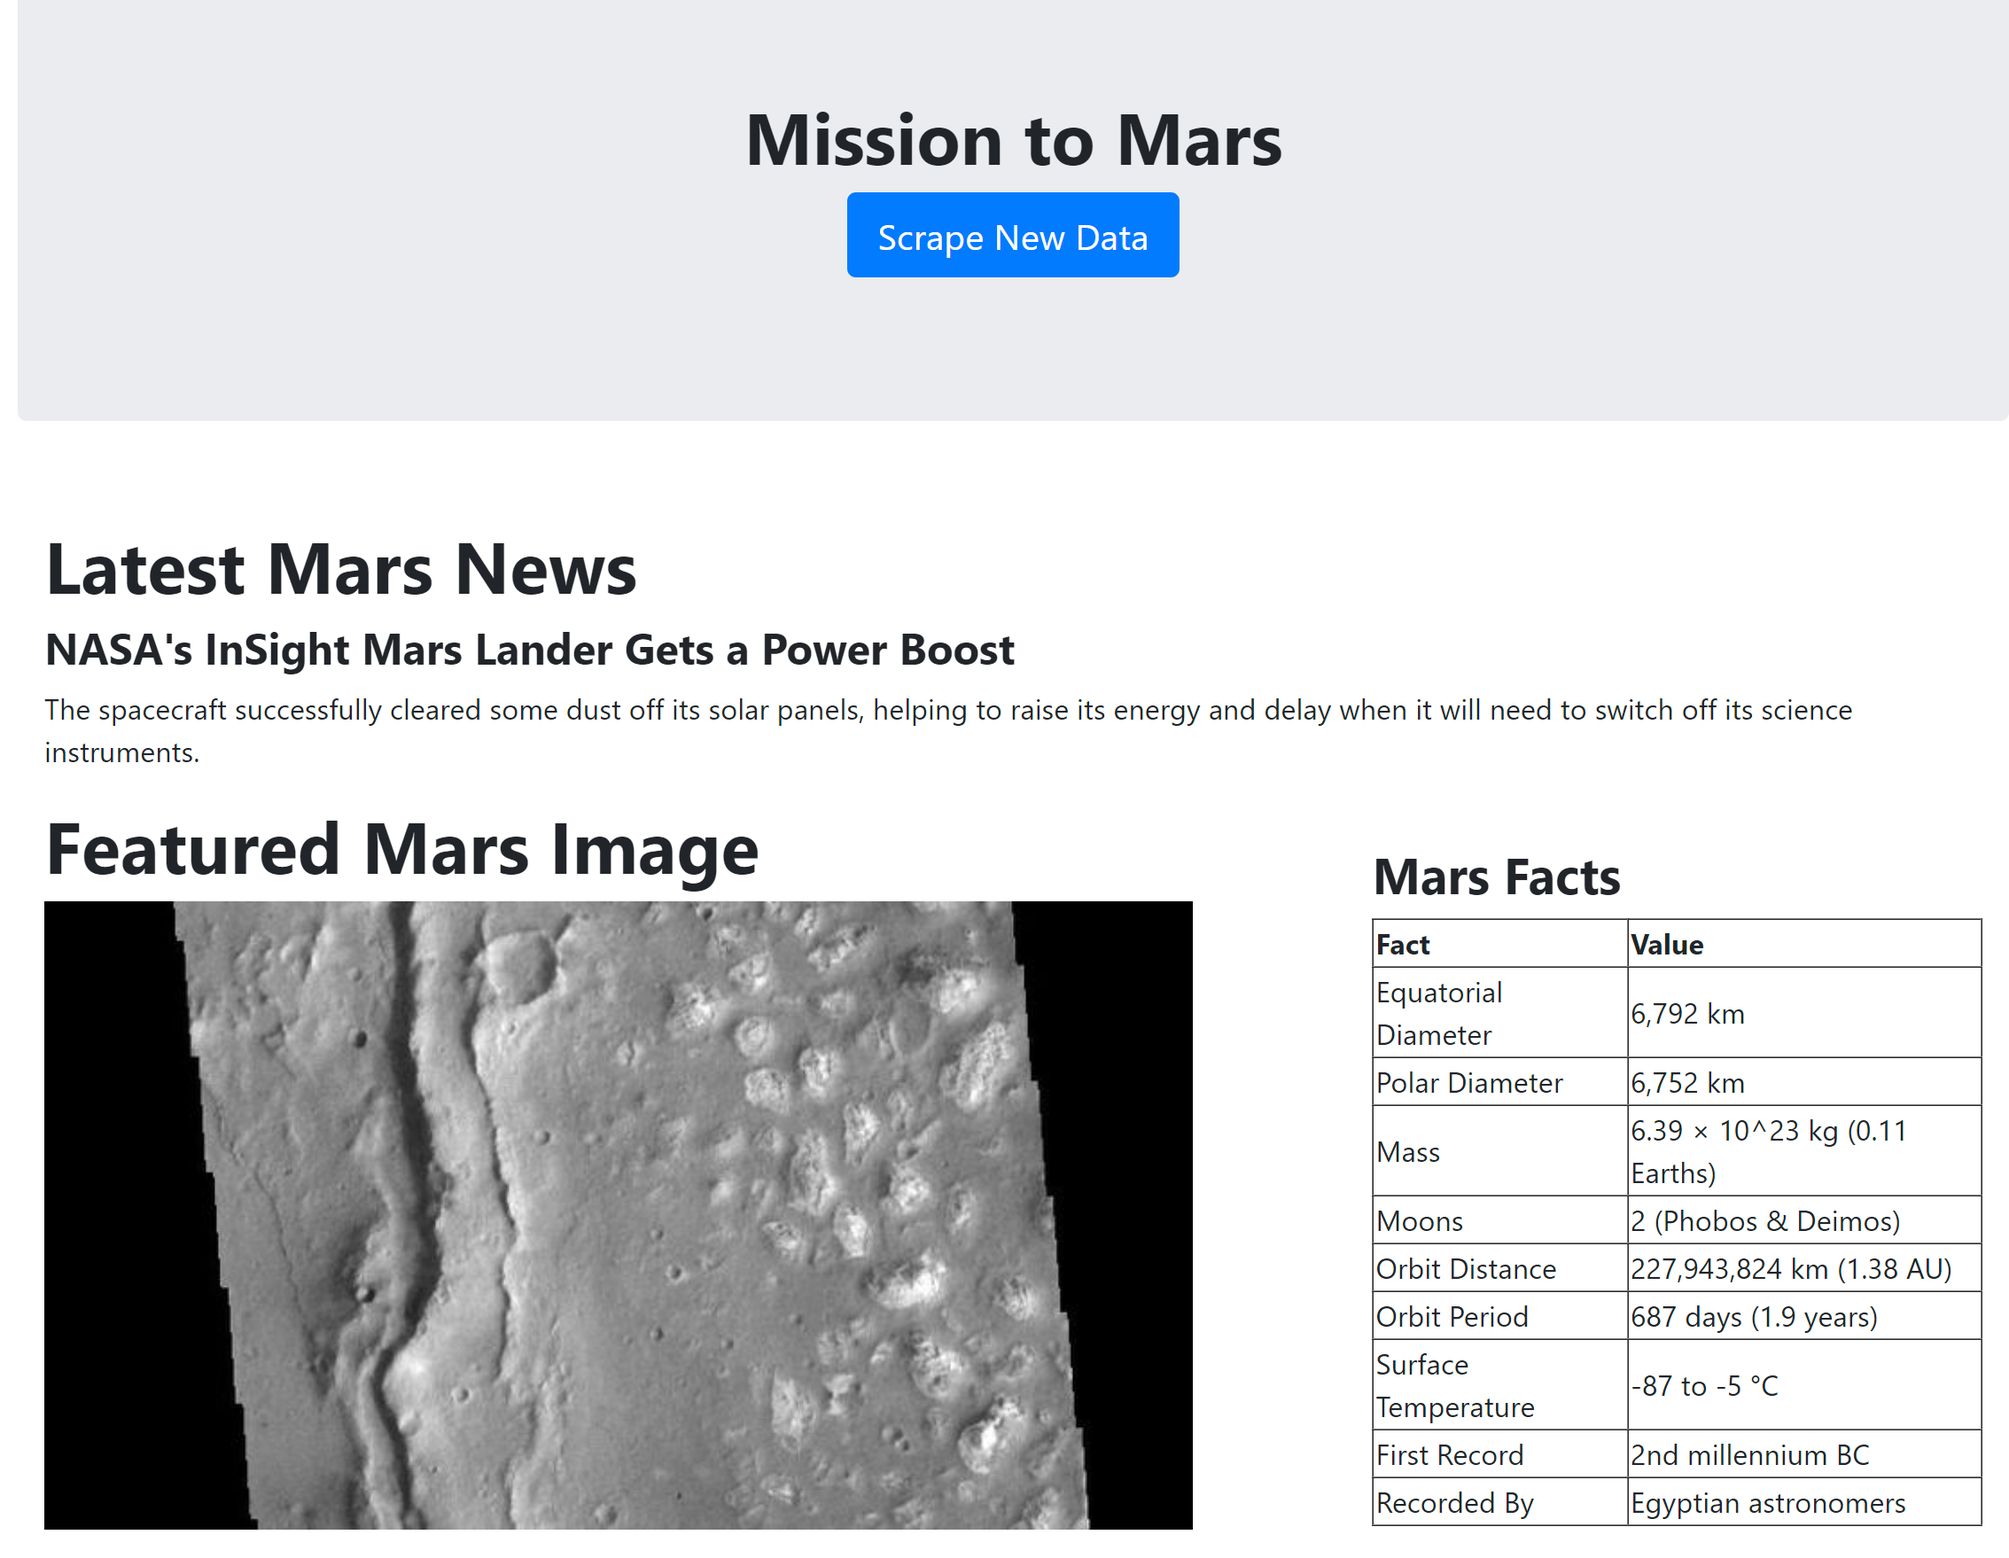
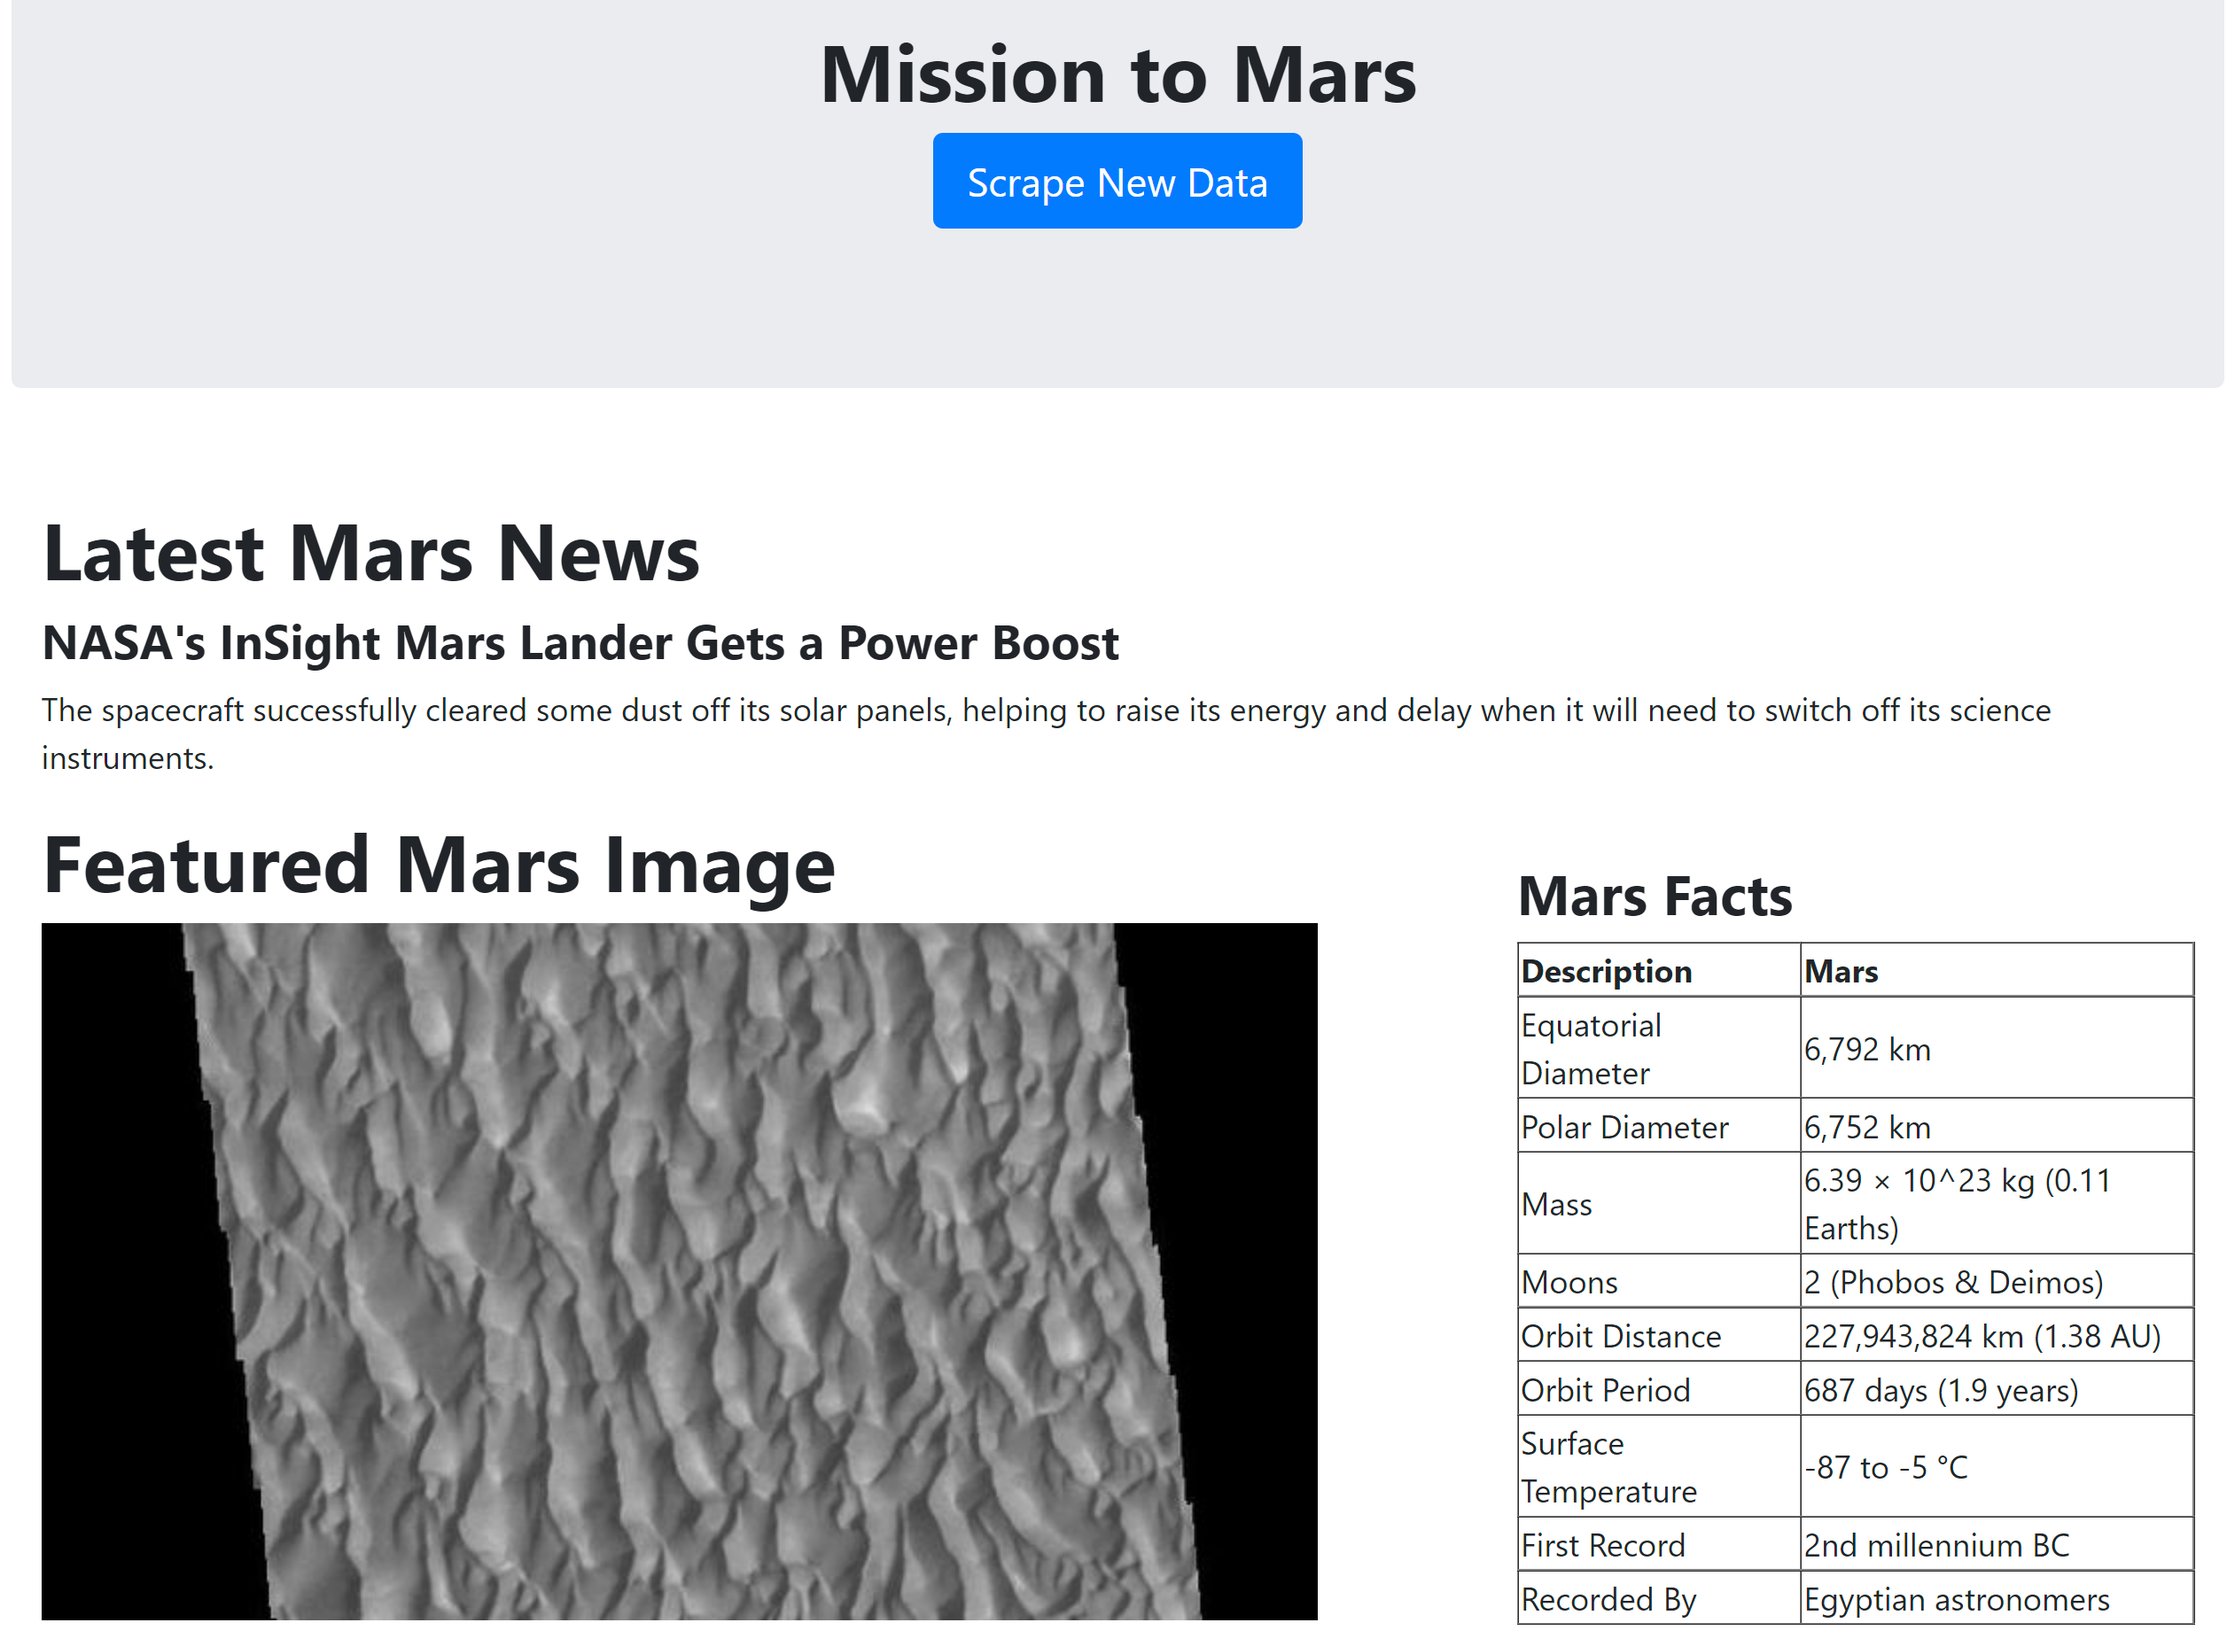
update images

Changed region(s): [[0.0, 0.3072, 0.9263, 0.9829], [0.6793, 0.5222, 0.9881, 1.0], [0.3705, 0.0307, 0.6484, 0.1843]]

diff --git a/scrape_mars.py b/scrape_mars.py
@@ -61,14 +61,14 @@ def scrape_mars_facts():
     # set up url for Mars Facts
     facts_url = "https://space-facts.com/mars/"
     browser.visit(facts_url)
-    time.sleep(3)
-
+    
     # Parse facts url to find tables
     facts_table = pd.read_html(facts_url)
     mars_table = facts_table[0]    
 
     # rename columns
     mars_table = mars_table.rename(columns = {0:'Description', 1:'Mars'})
+    mars_table = mars_table
     mars_table['Description'] = mars_table['Description'].str.replace(':','')
     mars_table
    
@@ -96,8 +96,8 @@ def scrape_mars_images():
 
     # Set up url for Mars Image
     base_url = "https://data-class-jpl-space.s3.amazonaws.com/JPL_Space/"
-    image_url = base_url + "index.html"
-    browser.visit(image_url)
+    url = base_url + "index.html"
+    browser.visit(url)
     time.sleep(3)
     html = browser.html
 
@@ -105,14 +105,14 @@ def scrape_mars_images():
     soup = bs(html, "html.parser")
 
     # scrape for image URL
-    feature_url = soup.find('a', class_='showimg fancybox-thumbs')['href']
-    feature_image_url = base_url + feature_url
+    image_url = soup.find('a', class_='showimg fancybox-thumbs')['href']
+    featured_image_url = base_url + image_url
 
     # print url
     # pprint(feature_image_url)
 
     # Add to dictionary
-    mars_info['image_url'] = feature_image_url
+    mars_info['image_url'] = featured_image_url
 
     return mars_info
     
@@ -127,8 +127,8 @@ def scrape_mars_hemi():
     browser = init_browser()
 
     # Set up url for Mars Hemisphere
-    hemi_url = "https://astrogeology.usgs.gov/search/results?q=hemisphere+enhanced&k1=target&v1=Mars"
-    browser.visit(hemi_url)
+    hemisphere_url = "https://astrogeology.usgs.gov/search/results?q=hemisphere+enhanced&k1=target&v1=Mars"
+    browser.visit(hemisphere_url)
     html = browser.html
     
     # beautifulSoup
@@ -140,7 +140,6 @@ def scrape_mars_hemi():
     # set base url
     hemi_base = 'https://astrogeology.usgs.gov'
 
-
     # List for hemi info storage
     hemi_image_urls = []
 
@@ -151,27 +150,31 @@ def scrape_mars_hemi():
         title = item.find('h3').text
 
         # link to hemi image
-        hemi_link = item.find('a', class_='itemLink product-item')['href']
+        hemi_full = item.find('a', class_='itemLink product-item')['href']
 
         # Set browser link
-        browser.visit(hemi_base + hemi_link)
-       
+        browser.visit(hemi_base + hemi_full)
+               
         # Set up url for Mars hemi image
-        hemi_html = browser.html
-        hemi_soup = bs(hemi_html, 'html.parser')
+        res_html = browser.html
+        hemi_soup = bs(res_html, 'html.parser')
+
+        # path to the hemi images
+        image_path = hemi_soup.find('img', class_='wide-image')['src']
 
         # URL for hemi images
-        hemi_url = hemi_base + hemi_soup.find('img', class_='wide-image')['src']
+        res_hemi_url = f'{hemi_base}{image_path}'
 
         # append title and image url to dictionary
         hemi_image_urls.append({
-            "title": title,
-             "img_url": hemi_url
-             })
+            "title": title, 
+            "img_url": res_hemi_url
+            })
 
     # print the hemispheres images
     # pprint(hemi_image_urls)
-        mars_info['hemi_image_urls'] = hemi_image_urls
+
+    mars_info['hemi_image_urls'] = hemi_image_urls
 
     return mars_info
     

diff --git a/appy.py b/appy.py
@@ -13,6 +13,7 @@ mongo = PyMongo(app)
 @app.route("/")
 def home():
 
+    # Scrape through functions
     mars_info = mongo.db.mars_info.find_one()
 
     # Return template and data
@@ -27,8 +28,8 @@ def scrape():
 
     # Run the scrape function
     mars_data = scrape_mars.scrape_mars_news()
-    mars_data = scrape_mars.scrape_mars_images()
     mars_f = scrape_mars.scrape_mars_facts()
+    mars_data = scrape_mars.scrape_mars_images()
     mars_data = scrape_mars.scrape_mars_hemi()
 
     # Update the Mongo database using update and upsert=True
